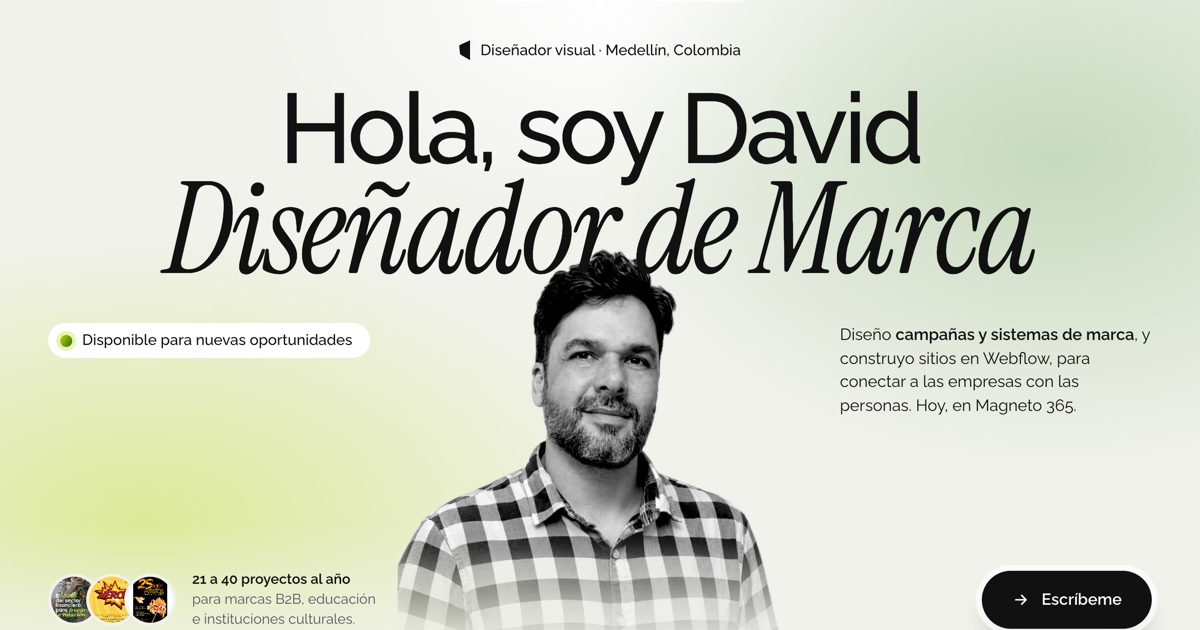
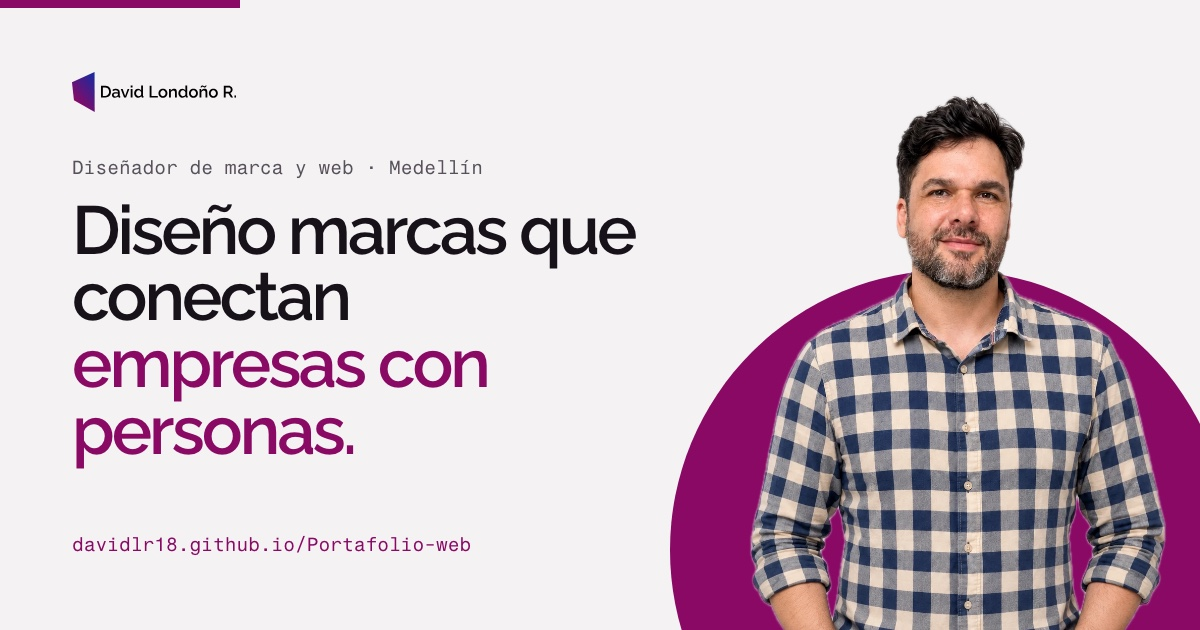
Actualiza la vista previa al compartir el portafolio
- Nueva imagen compartir.jpg (1200 × 630) con la portada de la
  versión 2: retrato a color sobre el disco ciruela.
- Su fuente queda en herramientas/compartir.html y se genera con
  herramientas/generar-compartir.sh.
- El inicio y los nueve casos usan direcciones completas en og:image,
  og:url, canonical y twitter:image, para que LinkedIn y WhatsApp
  muestren la imagen.

diff --git a/herramientas/compartir.html b/herramientas/compartir.html
@@ -1,0 +1,37 @@
+<!doctype html>
+<html lang="es">
+<head>
+<meta charset="utf-8">
+<!-- Source of sitio/assets/img/compartir.jpg (link preview, 1200 × 630).
+     Render it with: sh herramientas/generar-compartir.sh -->
+<link href="https://fonts.googleapis.com/css2?family=Fragment+Mono&family=Raleway:wght@400..700&display=swap" rel="stylesheet">
+<style>
+  :root{--ciruela:#890965;--papel:#F4F2F3;--noche:#17121A;--tinta-2:#56515A;--piedra:#D8D0D0}
+  *{box-sizing:border-box;margin:0}
+  html,body{width:1200px;height:630px;overflow:hidden;background:var(--papel)}
+  body{position:relative;font-family:"Raleway",sans-serif;font-feature-settings:"lnum" 1;color:var(--noche);-webkit-font-smoothing:antialiased}
+  /* plum rule on the top edge, as on the CVs */
+  body::before{content:"";position:absolute;left:0;top:0;width:240px;height:8px;background:var(--ciruela)}
+  .copy{position:absolute;left:72px;top:72px;width:660px;height:486px;display:flex;flex-direction:column}
+  .logo{height:40px;width:auto;align-self:flex-start}
+  .mono{font:400 19px/1.3 "Fragment Mono",monospace;color:var(--tinta-2)}
+  .copy .mono:first-of-type{margin-top:44px}
+  h1{margin-top:16px;font:600 68px/.98 "Raleway",sans-serif;letter-spacing:-.045em}
+  h1 em{display:block;font-style:normal;color:var(--ciruela)}
+  .url{margin-top:auto;color:var(--ciruela)}
+  /* portrait on the plum disc, cut by the bottom edge like the hero */
+  .disc{position:absolute;right:-30px;bottom:-200px;width:560px;height:560px;border-radius:50%;background:var(--ciruela)}
+  .portrait{position:absolute;right:30px;bottom:0;height:560px;width:auto}
+</style>
+</head>
+<body>
+  <div class="copy">
+    <img class="logo" src="../sitio/assets/logo/logo.svg" alt="">
+    <p class="mono">Diseñador de marca y web · Medellín</p>
+    <h1>Diseño marcas que conectan <em>empresas con personas.</em></h1>
+    <p class="mono url">davidlr18.github.io/Portafolio-web</p>
+  </div>
+  <div class="disc"></div>
+  <img class="portrait" src="../sitio/assets/img/david-color.png" alt="">
+</body>
+</html>

diff --git a/sitio/index.html b/sitio/index.html
@@ -5,12 +5,19 @@
 <meta name="viewport" content="width=device-width, initial-scale=1, viewport-fit=cover">
 <title>David Londoño R. — Diseñador de Marca y Web</title>
 <meta name="description" content="Portafolio de David Londoño R., diseñador visual y especialista en Gerencia de Marca en Medellín. Sitios web, campañas B2B, editorial y sistemas de marca desde 2009.">
+<link rel="canonical" href="https://davidlr18.github.io/Portafolio-web/">
 <meta property="og:type" content="website">
+<meta property="og:url" content="https://davidlr18.github.io/Portafolio-web/">
+<meta property="og:site_name" content="David Londoño R.">
 <meta property="og:title" content="David Londoño R. — Diseñador de Marca y Web">
 <meta property="og:description" content="Campañas, sistemas de marca y sitios en Webflow. Portafolio 2009–2026, Medellín, Colombia.">
-<meta property="og:image" content="assets/img/compartir.jpg">
+<meta property="og:image" content="https://davidlr18.github.io/Portafolio-web/assets/img/compartir.jpg">
+<meta property="og:image:width" content="1200">
+<meta property="og:image:height" content="630">
+<meta property="og:image:alt" content="David Londoño R., diseñador de marca y web: «Diseño marcas que conectan empresas con personas.»">
 <meta property="og:locale" content="es_CO">
 <meta name="twitter:card" content="summary_large_image">
+<meta name="twitter:image" content="https://davidlr18.github.io/Portafolio-web/assets/img/compartir.jpg">
 <meta name="theme-color" content="#F4F2F3">
 <link rel="icon" href="assets/logo/icono-disco.svg">
 <link rel="preconnect" href="https://fonts.googleapis.com">

diff --git a/sitio/casos/archivo.html b/sitio/casos/archivo.html
@@ -8,9 +8,12 @@
 <meta property="og:type" content="article">
 <meta property="og:title" content="Archivo: cada afiche, una idea — David Londoño R.">
 <meta property="og:description" content="Como diseñador de planta de la Facultad de Medicina de la Universidad de Antioquia y del Centro Colombo Americano: cine, teatro, música, arte y congresos médicos. Ahí aprendí que un afiche funciona cuando tiene una sola idea visual: una radiografía, un farol, un collage de estrellas de Hollywood.">
-<meta property="og:image" content="../assets/casos/archivo/udea-salon-artistas.jpg">
+<link rel="canonical" href="https://davidlr18.github.io/Portafolio-web/casos/archivo.html">
+<meta property="og:url" content="https://davidlr18.github.io/Portafolio-web/casos/archivo.html">
+<meta property="og:image" content="https://davidlr18.github.io/Portafolio-web/assets/casos/archivo/udea-salon-artistas.jpg">
 <meta property="og:locale" content="es_CO">
 <meta name="twitter:card" content="summary_large_image">
+<meta name="twitter:image" content="https://davidlr18.github.io/Portafolio-web/assets/casos/archivo/udea-salon-artistas.jpg">
 <link rel="icon" href="../assets/logo/icono-disco.svg">
 <meta name="theme-color" content="#F4F2F3">
 <link rel="preconnect" href="https://fonts.googleapis.com">

diff --git a/sitio/casos/sitio-magneto.html b/sitio/casos/sitio-magneto.html
@@ -8,9 +8,12 @@
 <meta property="og:type" content="article">
 <meta property="og:title" content="Un sitio para quince soluciones — David Londoño R.">
 <meta property="og:description" content="El nuevo sitio corporativo de Magneto 365 AI, una plataforma de talento con IA con más de quince soluciones y versiones para cuatro países. Mi parte fue construirlo: llevar los diseños a Webflow, página por página, y hacer que funcionaran igual de bien en escritorio y en el celular.">
-<meta property="og:image" content="../assets/casos/sitio-magneto/01-inicio.jpg">
+<link rel="canonical" href="https://davidlr18.github.io/Portafolio-web/casos/sitio-magneto.html">
+<meta property="og:url" content="https://davidlr18.github.io/Portafolio-web/casos/sitio-magneto.html">
+<meta property="og:image" content="https://davidlr18.github.io/Portafolio-web/assets/casos/sitio-magneto/01-inicio.jpg">
 <meta property="og:locale" content="es_CO">
 <meta name="twitter:card" content="summary_large_image">
+<meta name="twitter:image" content="https://davidlr18.github.io/Portafolio-web/assets/casos/sitio-magneto/01-inicio.jpg">
 <link rel="icon" href="../assets/logo/icono-disco.svg">
 <meta name="theme-color" content="#F4F2F3">
 <link rel="preconnect" href="https://fonts.googleapis.com">

diff --git a/sitio/casos/material-comercial.html b/sitio/casos/material-comercial.html
@@ -8,9 +8,12 @@
 <meta property="og:type" content="article">
 <meta property="og:title" content="Material comercial en dos minutos — David Londoño R.">
 <meta property="og:description" content="Documentos para el equipo comercial: one-pagers por solución y alianza, y el brochure de TalentMap 5D. Todos con la misma retícula y una jerarquía pensada para que un gerente entienda la propuesta en dos minutos.">
-<meta property="og:image" content="../assets/casos/material-comercial/onepager-agentes.jpg">
+<link rel="canonical" href="https://davidlr18.github.io/Portafolio-web/casos/material-comercial.html">
+<meta property="og:url" content="https://davidlr18.github.io/Portafolio-web/casos/material-comercial.html">
+<meta property="og:image" content="https://davidlr18.github.io/Portafolio-web/assets/casos/material-comercial/onepager-agentes.jpg">
 <meta property="og:locale" content="es_CO">
 <meta name="twitter:card" content="summary_large_image">
+<meta name="twitter:image" content="https://davidlr18.github.io/Portafolio-web/assets/casos/material-comercial/onepager-agentes.jpg">
 <link rel="icon" href="../assets/logo/icono-disco.svg">
 <meta name="theme-color" content="#F4F2F3">
 <link rel="preconnect" href="https://fonts.googleapis.com">

diff --git a/sitio/casos/ai-academy.html b/sitio/casos/ai-academy.html
@@ -8,9 +8,12 @@
 <meta property="og:type" content="article">
 <meta property="og:title" content="Lanzar una academia en tres tiempos — David Londoño R.">
 <meta property="og:description" content="Campaña de lanzamiento de Magneto 365 AI Academy, el programa para que los equipos de recursos humanos dominen la IA en reclutamiento. Tres fases (expectativa, lanzamiento y contenido educativo) con un tono premium dirigido a líderes de talento.">
-<meta property="og:image" content="../assets/casos/ai-academy/lanzamiento-1.jpg">
+<link rel="canonical" href="https://davidlr18.github.io/Portafolio-web/casos/ai-academy.html">
+<meta property="og:url" content="https://davidlr18.github.io/Portafolio-web/casos/ai-academy.html">
+<meta property="og:image" content="https://davidlr18.github.io/Portafolio-web/assets/casos/ai-academy/lanzamiento-1.jpg">
 <meta property="og:locale" content="es_CO">
 <meta name="twitter:card" content="summary_large_image">
+<meta name="twitter:image" content="https://davidlr18.github.io/Portafolio-web/assets/casos/ai-academy/lanzamiento-1.jpg">
 <link rel="icon" href="../assets/logo/icono-disco.svg">
 <meta name="theme-color" content="#F4F2F3">
 <link rel="preconnect" href="https://fonts.googleapis.com">

diff --git a/sitio/casos/agentes-virtuales.html b/sitio/casos/agentes-virtuales.html
@@ -8,9 +8,12 @@
 <meta property="og:type" content="article">
 <meta property="og:title" content="Ecosistema de agentes virtuales — David Londoño R.">
 <meta property="og:description" content="Una presentación de 21 láminas para explicar once agentes de IA, desde el que atiende candidatos por WhatsApp hasta el que administra todo el ecosistema. El reto era hacer comprensible un producto técnico y en plena evolución.">
-<meta property="og:image" content="../assets/casos/agentes-virtuales/slide-01.jpg">
+<link rel="canonical" href="https://davidlr18.github.io/Portafolio-web/casos/agentes-virtuales.html">
+<meta property="og:url" content="https://davidlr18.github.io/Portafolio-web/casos/agentes-virtuales.html">
+<meta property="og:image" content="https://davidlr18.github.io/Portafolio-web/assets/casos/agentes-virtuales/slide-01.jpg">
 <meta property="og:locale" content="es_CO">
 <meta name="twitter:card" content="summary_large_image">
+<meta name="twitter:image" content="https://davidlr18.github.io/Portafolio-web/assets/casos/agentes-virtuales/slide-01.jpg">
 <link rel="icon" href="../assets/logo/icono-disco.svg">
 <meta name="theme-color" content="#F4F2F3">
 <link rel="preconnect" href="https://fonts.googleapis.com">

diff --git a/sitio/casos/coffee-break.html b/sitio/casos/coffee-break.html
@@ -8,9 +8,12 @@
 <meta property="og:type" content="article">
 <meta property="og:title" content="Coffee Break: casos que se leen como historias — David Londoño R.">
 <meta property="og:description" content="Carruseles para el videopodcast Coffee Break, donde líderes de talento humano cuentan cómo transformaron sus procesos. El reto: convertir un caso de éxito B2B en algo que la gente quiera deslizar hasta el final.">
-<meta property="og:image" content="../assets/casos/coffee-break/banco-estatica.jpg">
+<link rel="canonical" href="https://davidlr18.github.io/Portafolio-web/casos/coffee-break.html">
+<meta property="og:url" content="https://davidlr18.github.io/Portafolio-web/casos/coffee-break.html">
+<meta property="og:image" content="https://davidlr18.github.io/Portafolio-web/assets/casos/coffee-break/banco-estatica.jpg">
 <meta property="og:locale" content="es_CO">
 <meta name="twitter:card" content="summary_large_image">
+<meta name="twitter:image" content="https://davidlr18.github.io/Portafolio-web/assets/casos/coffee-break/banco-estatica.jpg">
 <link rel="icon" href="../assets/logo/icono-disco.svg">
 <meta name="theme-color" content="#F4F2F3">
 <link rel="preconnect" href="https://fonts.googleapis.com">

diff --git a/sitio/casos/manual-marca.html b/sitio/casos/manual-marca.html
@@ -8,9 +8,12 @@
 <meta property="og:type" content="article">
 <meta property="og:title" content="Manual de marca Magneto 365 AI — David Londoño R.">
 <meta property="og:description" content="El manual que escribí y diseñé para la evolución de Magneto a Magneto 365 AI: quiénes somos, a quién le hablamos y cómo se ve la marca en cada pieza B2B. Veintidós páginas para que cualquier persona del equipo pueda diseñar sin romper la marca.">
-<meta property="og:image" content="../assets/casos/manual-marca/pag-01.jpg">
+<link rel="canonical" href="https://davidlr18.github.io/Portafolio-web/casos/manual-marca.html">
+<meta property="og:url" content="https://davidlr18.github.io/Portafolio-web/casos/manual-marca.html">
+<meta property="og:image" content="https://davidlr18.github.io/Portafolio-web/assets/casos/manual-marca/pag-01.jpg">
 <meta property="og:locale" content="es_CO">
 <meta name="twitter:card" content="summary_large_image">
+<meta name="twitter:image" content="https://davidlr18.github.io/Portafolio-web/assets/casos/manual-marca/pag-01.jpg">
 <link rel="icon" href="../assets/logo/icono-disco.svg">
 <meta name="theme-color" content="#F4F2F3">
 <link rel="preconnect" href="https://fonts.googleapis.com">

diff --git a/sitio/casos/worldskills-sena.html b/sitio/casos/worldskills-sena.html
@@ -8,9 +8,12 @@
 <meta property="og:type" content="article">
 <meta property="og:title" content="Editorial y eventos para el SENA — David Londoño R.">
 <meta property="og:description" content="Cuatro años diseñando la comunicación interna y externa de la regional más grande del SENA: periódicos y boletines, infografías, campañas de empleo y el material de WorldSkills Colombia.">
-<meta property="og:image" content="../assets/casos/worldskills-sena/ws-interior.jpg">
+<link rel="canonical" href="https://davidlr18.github.io/Portafolio-web/casos/worldskills-sena.html">
+<meta property="og:url" content="https://davidlr18.github.io/Portafolio-web/casos/worldskills-sena.html">
+<meta property="og:image" content="https://davidlr18.github.io/Portafolio-web/assets/casos/worldskills-sena/ws-interior.jpg">
 <meta property="og:locale" content="es_CO">
 <meta name="twitter:card" content="summary_large_image">
+<meta name="twitter:image" content="https://davidlr18.github.io/Portafolio-web/assets/casos/worldskills-sena/ws-interior.jpg">
 <link rel="icon" href="../assets/logo/icono-disco.svg">
 <meta name="theme-color" content="#F4F2F3">
 <link rel="preconnect" href="https://fonts.googleapis.com">

diff --git a/sitio/casos/ebook-mundial.html b/sitio/casos/ebook-mundial.html
@@ -8,9 +8,12 @@
 <meta property="og:type" content="article">
 <meta property="og:title" content="Colombia vuelve al Mundial — David Londoño R.">
 <meta property="og:description" content="Un e-book que usa el regreso de la Selección Colombia al Mundial para hablar de productividad, ausentismo y retención. Diez páginas con datos, calendario y un plan de acción para líderes de recursos humanos.">
-<meta property="og:image" content="../assets/casos/ebook-mundial/pag-01.jpg">
+<link rel="canonical" href="https://davidlr18.github.io/Portafolio-web/casos/ebook-mundial.html">
+<meta property="og:url" content="https://davidlr18.github.io/Portafolio-web/casos/ebook-mundial.html">
+<meta property="og:image" content="https://davidlr18.github.io/Portafolio-web/assets/casos/ebook-mundial/pag-01.jpg">
 <meta property="og:locale" content="es_CO">
 <meta name="twitter:card" content="summary_large_image">
+<meta name="twitter:image" content="https://davidlr18.github.io/Portafolio-web/assets/casos/ebook-mundial/pag-01.jpg">
 <link rel="icon" href="../assets/logo/icono-disco.svg">
 <meta name="theme-color" content="#F4F2F3">
 <link rel="preconnect" href="https://fonts.googleapis.com">
